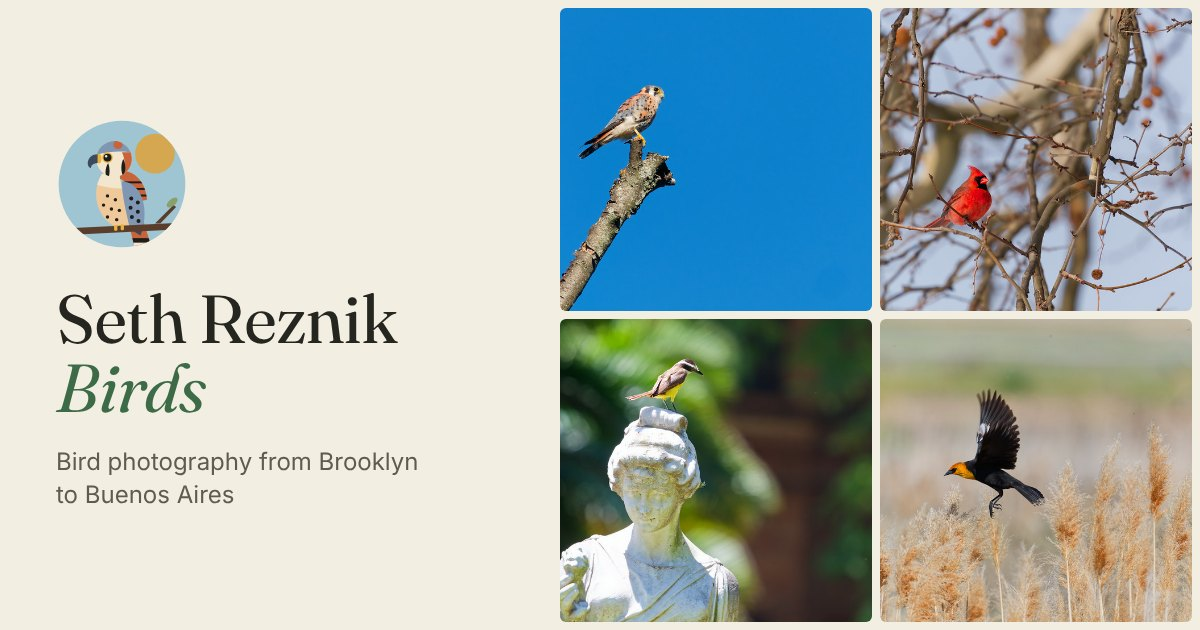
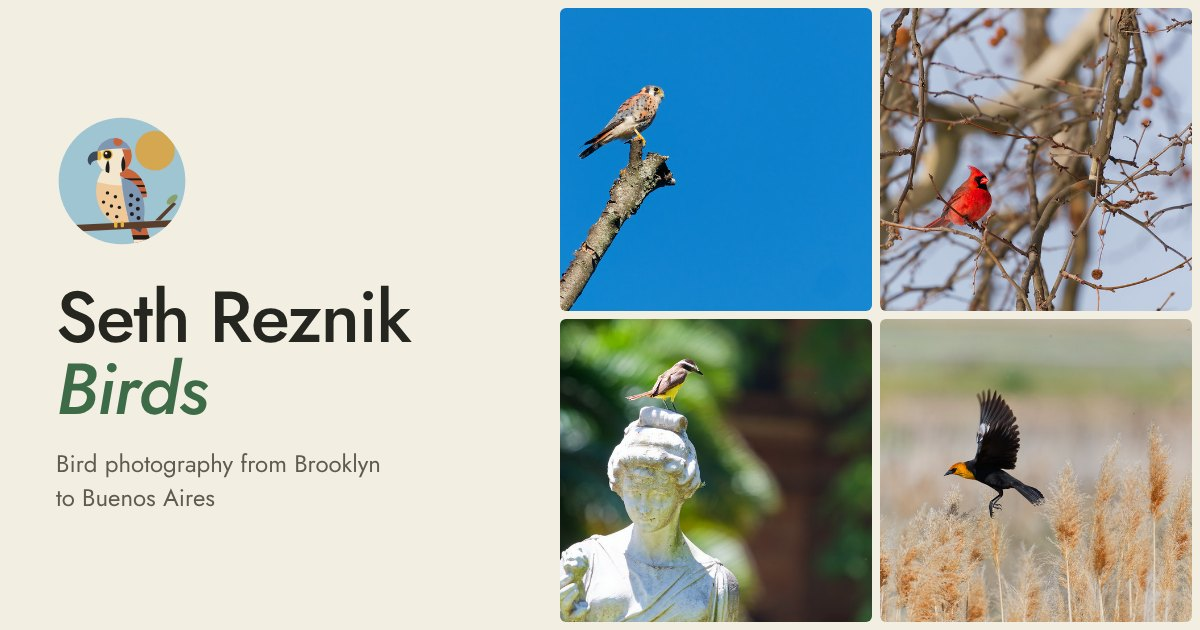
Switch typography to Jost
Replaces Fraunces (headings) + Inter (body) with Jost throughout: a
geometric, Futura-style sans from the same mid-century spirit as the
kestrel illustration. Share card regenerated to match.

Claude-Session: https://claude.ai/code/session_01XNvLetgr4zceo8MSGzxVhG

diff --git a/bird-gallery/site/styles.css b/bird-gallery/site/styles.css
@@ -11,8 +11,9 @@
   --accent-ink: #ffffff;
   --lb-accent: #9cc29b;   /* accent used inside the dark photo view */
   --lb-accent-ink: #12210f;
-  --serif: "Fraunces", Georgia, serif;
-  --sans: "Inter", system-ui, -apple-system, "Segoe UI", sans-serif;
+  /* Jost: geometric, Futura-style, mid-century like the kestrel illustration */
+  --display: "Jost", "Futura", "Century Gothic", system-ui, sans-serif;
+  --sans: "Jost", "Futura", "Century Gothic", system-ui, sans-serif;
   --row: 260px;
   --gap: 6px;
   --radius: 6px;
@@ -45,8 +46,8 @@ a.home:hover .mark { transform: rotate(-6deg) scale(1.04); }
 h1 a.home:hover { opacity: .85; }
 h1 {
   margin: 0;
-  font: 400 clamp(34px, 6vw, 64px)/1.05 var(--serif);
-  letter-spacing: -.01em;
+  font: 500 clamp(34px, 6vw, 64px)/1.05 var(--display);
+  letter-spacing: -.02em;
 }
 h1 em { font-style: italic; color: var(--accent); }
 h1 .amp { color: var(--faint); }
@@ -113,14 +114,14 @@ h1 .amp { color: var(--faint); }
   text-align: left; opacity: 0; transition: opacity .25s ease;
 }
 .tile:hover .cap, .tile:focus-visible .cap { opacity: 1; }
-.cap strong { display: block; font: 600 15px/1.25 var(--serif); color: #f4f1e8; }
+.cap strong { display: block; font: 500 15px/1.25 var(--display); color: #f4f1e8; }
 .cap span { font-size: 12px; color: #d8d4c6; }
 
 /* ---------- species / places cards ---------- */
 .cards { display: grid; grid-template-columns: repeat(auto-fill, minmax(230px, 1fr)); gap: 18px 14px; }
 .group-h {
   grid-column: 1 / -1; margin: 18px 0 -4px; padding-bottom: 6px;
-  font: 400 22px var(--serif); border-bottom: 1px solid var(--line);
+  font: 400 22px var(--display); border-bottom: 1px solid var(--line);
 }
 .group-h small { font: 13px var(--sans); color: var(--faint); margin-left: 8px; }
 .group-h:first-child { margin-top: 0; }
@@ -130,7 +131,7 @@ h1 .amp { color: var(--faint); }
 .card .thumb { aspect-ratio: 4 / 3; border-radius: var(--radius); overflow: hidden; background: var(--bg-raised); }
 .card .thumb img { width: 100%; height: 100%; object-fit: cover; transition: transform .5s ease; }
 .card:hover .thumb img { transform: scale(1.04); }
-.card h3 { margin: 8px 0 0; font: 600 17px/1.25 var(--serif); }
+.card h3 { margin: 8px 0 0; font: 500 17px/1.25 var(--display); }
 .card p { margin: 2px 0 0; font-size: 13px; color: var(--muted); }
 .card .sci { font-style: italic; }
 
@@ -164,8 +165,8 @@ dialog#lightbox::backdrop { background: rgba(0,0,0,.6); }
   border: 0; border-radius: 50%; background: rgba(255,255,255,.08); cursor: pointer; font-size: 24px; line-height: 1;
 }
 .lb-info { background: var(--bg); border-left: 1px solid var(--line); padding: 56px 24px 24px; overflow-y: auto; }
-.lb-info h2 { margin: 0; font: 400 30px/1.1 var(--serif); }
-.lb-info .sci { margin: 4px 0 0; font: italic 17px var(--serif); color: var(--muted); }
+.lb-info h2 { margin: 0; font: 500 30px/1.1 var(--display); letter-spacing: -.01em; }
+.lb-info .sci { margin: 4px 0 0; font: italic 16px var(--display); color: var(--muted); }
 .lb-info .fam { margin: 2px 0 0; font-size: 13px; color: var(--faint); }
 .badge { display: inline-block; margin-top: 10px; padding: 2px 10px; border-radius: 999px; font-size: 12px; background: var(--accent); color: var(--accent-ink); font-weight: 600; }
 .lb-info .about { margin: 18px 0 0; color: var(--text-soft); }

diff --git a/bird-gallery/scripts/share-card.js b/bird-gallery/scripts/share-card.js
@@ -6,13 +6,13 @@ const svg = fs.readFileSync(require('path').join(__dirname, '../site/kestrel.svg
 const base = 'https://live.staticflickr.com/65535/';
 const ph = ['55639360732_e4aac5a987', '55162238651_7cf06842b4', '54997682690_164390231f', '55256273008_b0fe155e70'];
 const html = `<!doctype html><html><head>
-<link href="https://fonts.googleapis.com/css2?family=Fraunces:ital,opsz,wght@0,9..144,400;1,9..144,400&family=Inter:wght@400;500&display=swap" rel="stylesheet">
+<link href="https://fonts.googleapis.com/css2?family=Jost:ital,wght@0,400;0,500;1,500&display=swap" rel="stylesheet">
 <style>
  *{box-sizing:border-box;margin:0}
- body{width:1200px;height:630px;background:#f3eee2;display:grid;grid-template-columns:560px 1fr;font-family:Inter;color:#24261f}
+ body{width:1200px;height:630px;background:#f3eee2;display:grid;grid-template-columns:560px 1fr;font-family:Jost;color:#24261f}
  .l{padding:64px 56px;display:flex;flex-direction:column;justify-content:center}
  .mark{width:132px;height:132px;margin-bottom:34px}
- h1{font:400 68px/1.02 Fraunces;letter-spacing:-.01em}
+ h1{font:500 72px/1.0 Jost;letter-spacing:-.02em}
  h1 em{color:#3d6b47}
  h1 .dot{color:#a39d89}
  p{margin-top:22px;font-size:24px;line-height:1.4;color:#5f5c4f}

diff --git a/bird-gallery/site/index.html b/bird-gallery/site/index.html
@@ -18,7 +18,7 @@
   <meta name="twitter:card" content="summary_large_image">
   <link rel="preconnect" href="https://fonts.googleapis.com">
   <link rel="preconnect" href="https://fonts.gstatic.com" crossorigin>
-  <link href="https://fonts.googleapis.com/css2?family=Fraunces:ital,opsz,wght@0,9..144,400;0,9..144,600;1,9..144,400&family=Inter:wght@400;500;600&display=swap" rel="stylesheet">
+  <link href="https://fonts.googleapis.com/css2?family=Jost:ital,wght@0,400;0,500;0,600;1,400;1,500&display=swap" rel="stylesheet">
   <link rel="icon" href="kestrel.svg" type="image/svg+xml">
   <link rel="stylesheet" href="styles.css?v=dev">
 </head>
